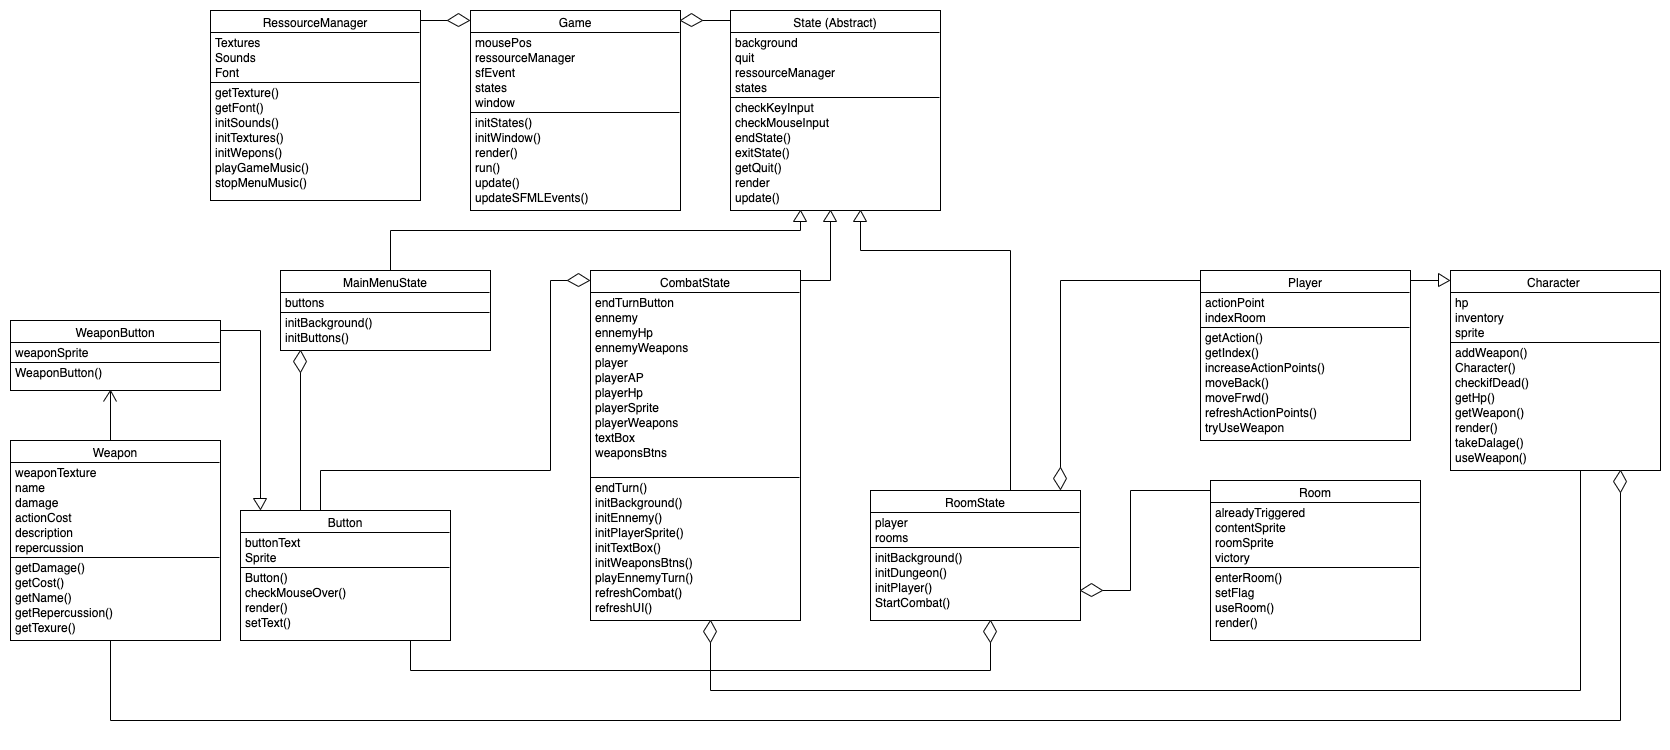
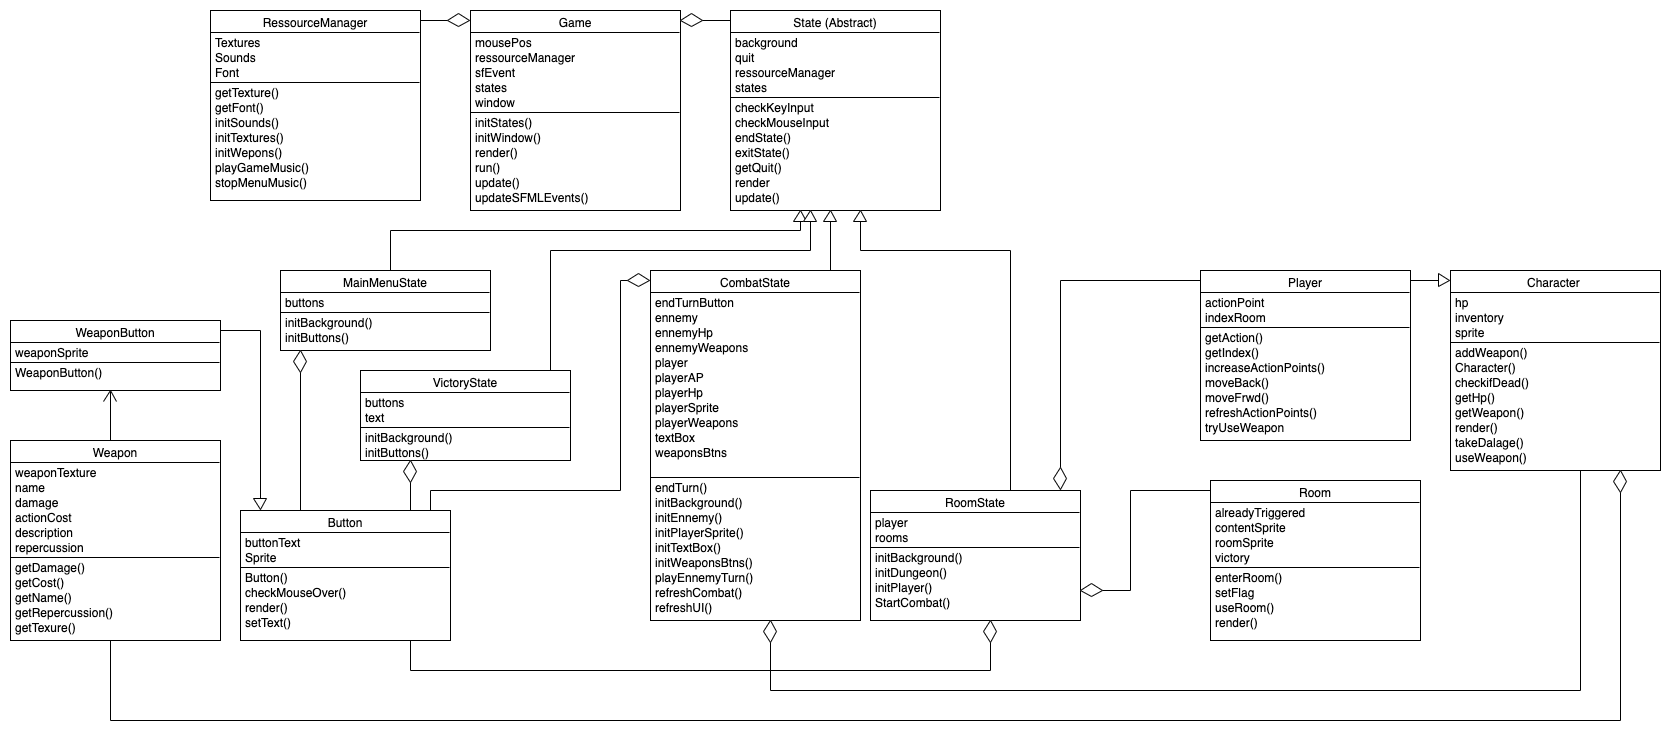
Victory & UML update

diff --git a/src/VictoryState.cpp b/src/VictoryState.cpp
@@ -1,0 +1,72 @@
+#include "VictoryState.h"
+
+VictoryState::VictoryState(RessourceManager* manager, std::stack<std::unique_ptr<State>>* states):
+	State(manager, states),
+	backMenu(Button(sf::Vector2f(410, 330), ressourceManager->getFont(), "Back to menu", ressourceManager->getButtonTexture()))
+{
+	initBackground();
+	initBtns();
+	initText();
+}
+
+//Init Functions
+void VictoryState::initBackground() 
+{
+
+	background.setSize(sf::Vector2f(1020, 600));
+	background.setTexture(ressourceManager->getVictoryTexture());
+}
+
+void VictoryState::initBtns() 
+{
+	backMenu.setSize(sf::Vector2f(220, 70));
+}
+
+void VictoryState::initText()
+{
+	victoryText.setString("You win");
+	victoryText.setFont(*ressourceManager->getFont());
+	victoryText.setCharacterSize(40);
+	victoryText.setFillColor(sf::Color::White);
+	victoryText.setPosition(sf::Vector2f(435, 200));
+}
+
+
+//Engine Functions
+void VictoryState::render(sf::RenderTarget & target) const 
+{
+	target.draw(background);
+	target.draw(victoryText);
+	backMenu.render(target);
+}
+
+void VictoryState::update()
+{
+	//nothing to update
+}
+
+void VictoryState::checkKeyInput(sf::Event event)
+{
+	if (event.key.code == sf::Keyboard::Escape)
+	{
+		exitState();
+	}
+}
+
+void VictoryState::checkMouseInput(sf::Event event, sf::Vector2f mousePos)
+{
+	if (event.mouseButton.button == sf::Mouse::Left && backMenu.checkMouseOver(mousePos))
+	{	
+		exitState();
+	}
+}
+
+void VictoryState::endState() 
+{
+	std::cout << "Ending Victory State\n";
+}
+
+void VictoryState::renderImgui() 
+{
+	//nothing to render
+}

diff --git a/src/RoomState.cpp b/src/RoomState.cpp
@@ -48,6 +48,13 @@ void RoomState::StartCombat()
 	states->push(std::make_unique<CombatState>(ressourceManager, states, &player));
 }
 
+void RoomState::displayVictory()
+{
+	//Kill the player to return directly to the main menu
+	player.takeDamage(player.getHp());
+	states->push(std::make_unique<VictoryState>(ressourceManager, states));
+}
+
 //Engine Functions
 void RoomState::render(sf::RenderTarget& target) const
 {
@@ -79,7 +86,7 @@ void RoomState::checkKeyInput(sf::Event event)
 		}
 		if (rooms[player.getIndex()].enterRoom() == 2)
 		{
-			exitState();
+			displayVictory();
 		}
 	}
 	else if (event.key.code == sf::Keyboard::Right)
@@ -91,7 +98,7 @@ void RoomState::checkKeyInput(sf::Event event)
 		}
 		if (rooms[player.getIndex()].enterRoom() == 2)
 		{
-			exitState();
+			displayVictory();
 		}
 	}
 }

diff --git a/src/VictoryState.h b/src/VictoryState.h
@@ -1,0 +1,30 @@
+#pragma once
+#include "State.h"
+#include "Button.h"
+
+class VictoryState : public State
+{
+private : 
+	//Variables
+	Button backMenu;
+	sf::Text victoryText; 
+
+	//Init Functions
+	void initBackground();
+	void initBtns();
+	void initText();
+
+public:
+	// Constructor/Destructor
+	VictoryState(RessourceManager* manager, std::stack<std::unique_ptr<State>>* states);
+	virtual ~VictoryState() = default;
+
+	//Engine Functions
+	void render(sf::RenderTarget& target) const override;
+	void update() override;
+	void checkKeyInput(sf::Event event) override;
+	void checkMouseInput(sf::Event event, sf::Vector2f mousePos) override;
+	void endState() override;
+
+	void renderImgui() override;
+};

diff --git a/src/RessourceManager.h b/src/RessourceManager.h
@@ -23,6 +23,7 @@ private:
 	sf::Texture spaceshipTexture;
 	sf::Texture flagTexture;
 	sf::Texture textboxTexture;
+	sf::Texture victoryTexture;
 	std::vector < std::unique_ptr <sf::Texture>> Weaponstextures;
 
 	//Sounds
@@ -55,6 +56,7 @@ public:
 	sf::Texture* getSpaceshipTexture() { return &spaceshipTexture; }
 	sf::Texture* getFlagTexture() { return &flagTexture; }
 	sf::Texture* getTextboxTexture() { return &textboxTexture; }
+	sf::Texture* getVictoryTexture() { return &victoryTexture; }
 	//Weapon Getter
 	Weapon getRandomWeapon() const;
 

diff --git a/src/RessourceManager.cpp b/src/RessourceManager.cpp
@@ -38,6 +38,7 @@ void RessourceManager::initTextures()
 	buttonTexture.loadFromFile("../../resources/buttonsci-fi.png");
 	interiorTexture.loadFromFile("../../resources/interior.png");
 	menuTexture.loadFromFile("../../resources/menu.png");
+	victoryTexture.loadFromFile("../../resources/victory.jpg");
 }
 
 void RessourceManager::initSounds()

diff --git a/src/RoomState.h b/src/RoomState.h
@@ -5,6 +5,7 @@
 #include "Weapon.h"
 #include <imgui-SFML.h>
 #include <imgui.h>
+#include "VictoryState.h"
 
 class RoomState : public State
 {
@@ -20,6 +21,7 @@ private:
 
 	//Others Functions
 	void StartCombat();
+	void displayVictory();
 
 public:
 	// Constructor/Destructor
